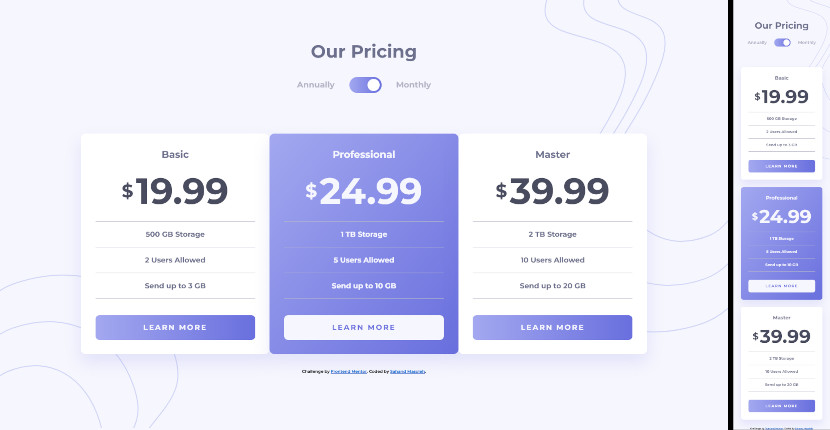
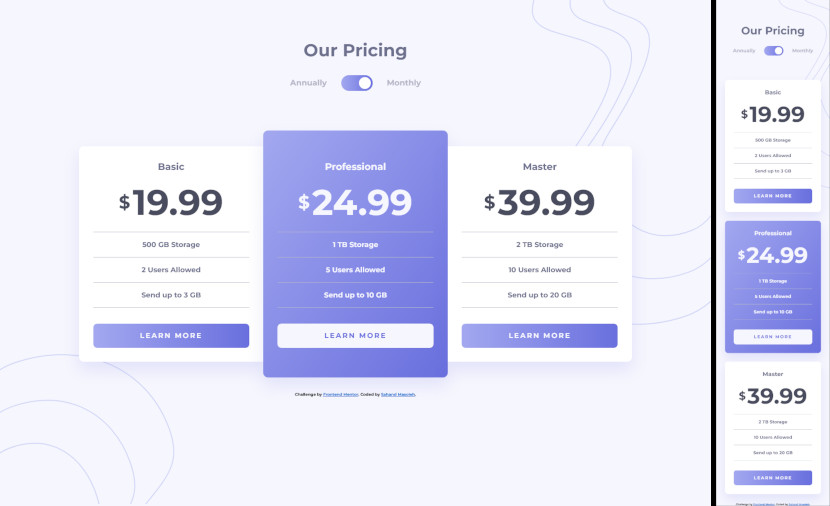
[CSS] fixed center card

Changed region(s): [[0.0904, 0.0907, 0.7831, 0.8767], [0.8434, 0.0, 1.0, 1.0]]

diff --git a/style.css b/style.css
@@ -112,8 +112,23 @@ body {
 .card--light {
   background-color: white;
 }
+@media screen and (min-width: 720px) {
+  .card--light:nth-of-type(1) {
+    border-top-right-radius: 0;
+    border-bottom-right-radius: 0;
+  }
+  .card--light:nth-of-type(3) {
+    border-top-left-radius: 0;
+    border-bottom-left-radius: 0;
+  }
+}
 .card--dark {
   background-image: linear-gradient(to bottom right, hsl(236deg, 72%, 79%), hsl(237deg, 63%, 64%));
+}
+@media screen and (min-width: 720px) {
+  .card--dark {
+    padding: 3.8rem 1.8rem;
+  }
 }
 .card__plan {
   font-size: 1.2rem;

diff --git a/style.scss b/style.scss
@@ -142,10 +142,26 @@ body {
 
 	&--light {
 		background-color: white;
+
+		@media screen and (min-width: $break-point) {
+			&:nth-of-type(1) {
+				border-top-right-radius: 0;
+				border-bottom-right-radius: 0;
+			}
+
+			&:nth-of-type(3) {
+				border-top-left-radius: 0;
+				border-bottom-left-radius: 0;
+			}
+		}
 	}
 
 	&--dark {
 		background-image: linear-gradient(to bottom right, $gradient);
+
+		@media screen and (min-width: $break-point) {
+			padding: calc($gap-l + 2rem) $gap-l;
+		}
 	}
 
 	&__plan {
